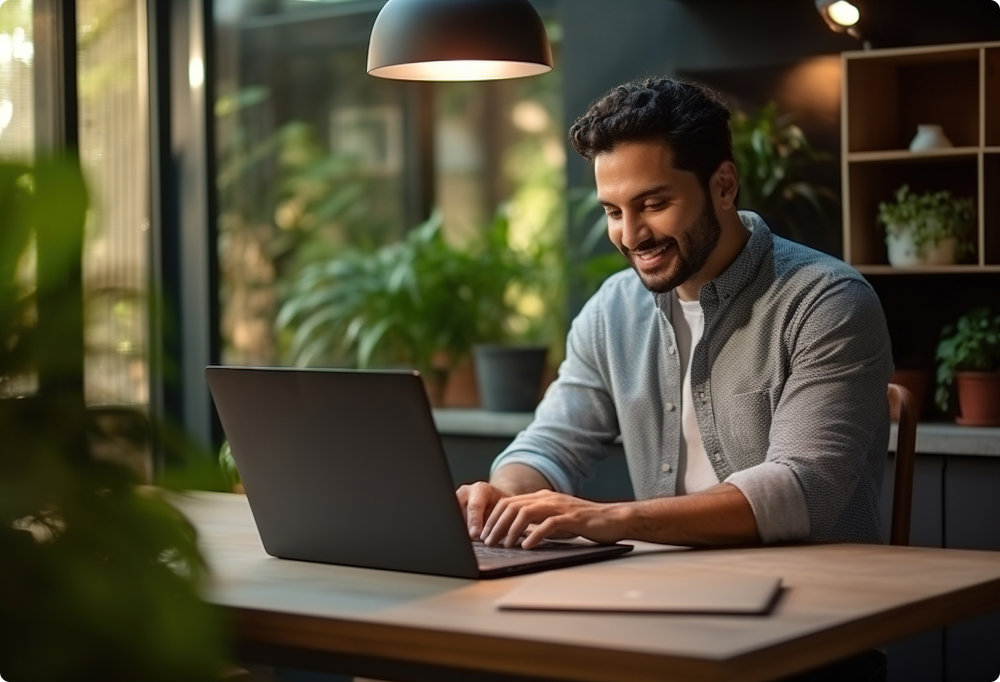
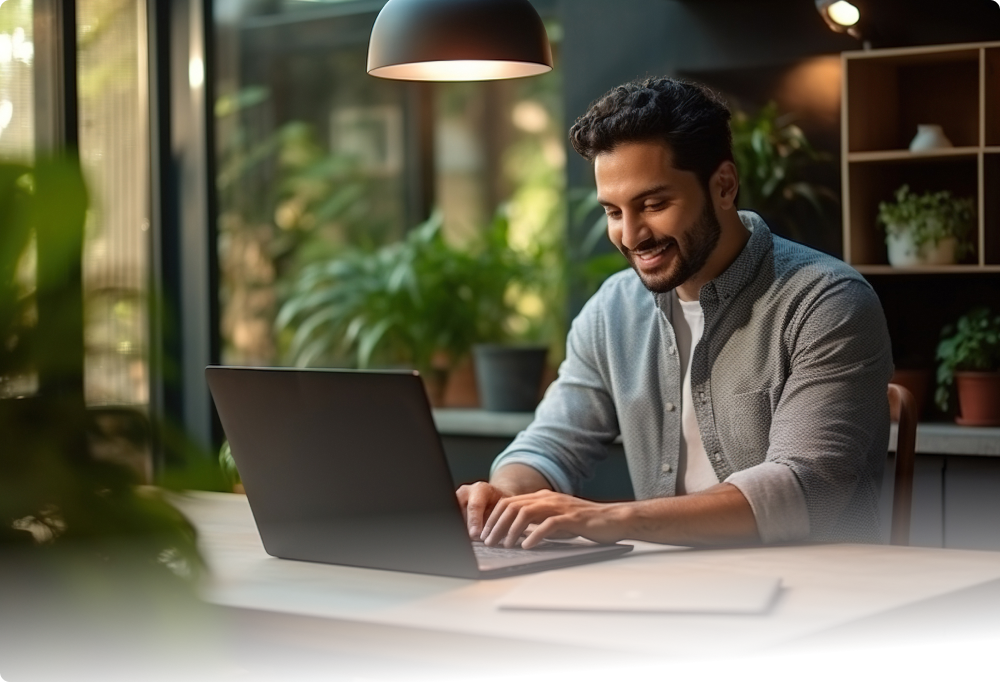
first commit

Changed region(s): [[0.0, 0.7082, 1.0, 1.0]]

diff --git a/app/page.tsx b/app/page.tsx
@@ -1,6 +1,6 @@
 import Image from "next/image";
-import NavBar from "@/components/NavBar";
 import { Lato } from "next/font/google";
+import Footer from "@/components/Footer";
 
 const lato = Lato({
     subsets: ["latin"],
@@ -21,9 +21,7 @@ const backgroundStyle = {
 export default function Home() {
     return (
         <main className={lato.className}>
-            <NavBar />
-
-            <div className="h-[400vh] text-white">
+            <div className="h-[450vh] text-white">
                 <div className="h-[100vh]">
                     <div
                         className="absolute h-[100vh] bg-cover bg-gradient-to-t from-white to-black"
@@ -69,7 +67,69 @@ export default function Home() {
                     </p>
                 </div>
 
-                <div className="h-[200vh] bg-slate-900"></div>
+                <div className="h-[250vh] bg-gradient-to-b from-[#0B323E] to-[#101C20] text-xl">
+                    <div className="h-[70vh] flex flex-row justify-around items-center">
+                        <div className="h-[350px] w-[450px]">
+                            <div className="text-5xl font-bold text-transparent bg-clip-text bg-gradient-to-r from-[#147390] to-[#A6FBB2]">
+                                Private and Efficient Self-Assessment
+                            </div>
+                            <p className="text-2xl w-[430px] pt-12 leading-relaxed">
+                                Only 16 questions provide a quick yet insightful
+                                evaluation of your Emotional Fulfillment,
+                                Intellectuak Engagement, Workplace Relationship,
+                                and Engagement within your current role.
+                            </p>
+                        </div>
+                        <Image
+                            src="/image1.png"
+                            alt="First Image"
+                            width={500}
+                            height={500}
+                            className=""
+                        />
+                    </div>
+                    <div className="h-[70vh] flex flex-row justify-around items-center">
+                        <Image
+                            src="/image2.png"
+                            alt="First Image"
+                            width={500}
+                            height={500}
+                            className=""
+                        />
+                        <div className="h-[350px] w-[470px]">
+                            <div className="text-5xl font-bold text-transparent bg-clip-text bg-gradient-to-r from-[#147390] to-[#A6FBB2]">
+                                Confidential Guidance for Career Transitions
+                            </div>
+                            <p className="text-2xl w-[430px] pt-12 leading-relaxed">
+                                Specifically designed for professionals at a
+                                turning point, this private tool provides
+                                insights into job satisfaction and performance,
+                                offering confidential guidance for pivotal
+                                career decisions.
+                            </p>
+                        </div>
+                    </div>
+                    <div className="h-[70vh] flex flex-row justify-around items-center">
+                        <div className="h-[350px] w-[430px]">
+                            <div className="text-5xl font-bold text-transparent bg-clip-text bg-gradient-to-r from-[#147390] to-[#A6FBB2]">
+                                Peer Comparions for Context
+                            </div>
+                            <p className="text-2xl w-[420px] pt-12 leading-relaxed">
+                                Compare your career progress with peers in a
+                                secure environment, offering a private yet clear
+                                perspective on where you stand professionally.
+                            </p>
+                        </div>
+                        <Image
+                            src="/image3.png"
+                            alt="First Image"
+                            width={500}
+                            height={500}
+                            className=""
+                        />
+                    </div>
+                    <Footer />
+                </div>
             </div>
         </main>
     );

diff --git a/components/Footer.tsx b/components/Footer.tsx
@@ -1,0 +1,43 @@
+import React from "react";
+import Link from "next/link";
+
+const Footer = () => {
+    return (
+        <footer className="flex flex-row justify-center items-center h-[40vh] text-white gap-x-24 w-fill">
+            <div className="bg-[#384245] px-[7rem] py-[6rem]" />
+            <div className="flex flex-row gap-x-24 h-[12rem] ">
+                <div className="flex flex-col justify-start items-start gap-y-4">
+                    <Link href="/">Home</Link>
+                    <Link href="/">Start Career Benchmark</Link>
+                    <Link href="/">Augmented Mentorship</Link>
+                    <Link href="/">Enterprise Solution</Link>
+                </div>
+                <div className="flex flex-col justify-start items-start gap-y-4">
+                    <Link href="/">Terms and Conditions</Link>
+                    <Link href="/">Policies</Link>
+                    <Link href="/">Contact</Link>
+                </div>
+                <div className="flex flex-col justify-start items-start gap-y-4">
+                    <Link href="/" className="font-bold">
+                        Join Our Newsletter
+                    </Link>
+                    <Link href="/">
+                        Get the latest information from CoPilot Career
+                    </Link>
+                    <div className="flex gap-4 pt-2">
+                        <input
+                            type="text"
+                            placeholder="Enter your email address"
+                            className="h-[3.5rem] w-[24rem] rounded text-center border-none outline-none text-black"
+                        />
+                        <button className="h-[3.5rem] px-10 rounded bg-gradient-to-r from-[#106884] to-[#88CDE1] text-xl">
+                            Sign Up
+                        </button>
+                    </div>
+                </div>
+            </div>
+        </footer>
+    );
+};
+
+export default Footer;

diff --git a/tailwind.config.ts b/tailwind.config.ts
@@ -1,20 +1,21 @@
-import type { Config } from 'tailwindcss'
+import type { Config } from "tailwindcss";
 
 const config: Config = {
-  content: [
-    './pages/**/*.{js,ts,jsx,tsx,mdx}',
-    './components/**/*.{js,ts,jsx,tsx,mdx}',
-    './app/**/*.{js,ts,jsx,tsx,mdx}',
-  ],
-  theme: {
-    extend: {
-      backgroundImage: {
-        'gradient-radial': 'radial-gradient(var(--tw-gradient-stops))',
-        'gradient-conic':
-          'conic-gradient(from 180deg at 50% 50%, var(--tw-gradient-stops))',
-      },
+    content: [
+        "./pages/**/*.{js,ts,jsx,tsx,mdx}",
+        "./components/**/*.{js,ts,jsx,tsx,mdx}",
+        "./app/**/*.{js,ts,jsx,tsx,mdx}",
+    ],
+    darkMode: ["class"],
+    theme: {
+        extend: {
+            backgroundImage: {
+                "gradient-radial": "radial-gradient(var(--tw-gradient-stops))",
+                "gradient-conic":
+                    "conic-gradient(from 180deg at 50% 50%, var(--tw-gradient-stops))",
+            },
+        },
     },
-  },
-  plugins: [],
-}
-export default config
+    plugins: [],
+};
+export default config;

diff --git a/app/layout.tsx b/app/layout.tsx
@@ -1,6 +1,7 @@
 import type { Metadata } from "next";
 import { Inter } from "next/font/google";
 import "./globals.css";
+import NavBar from "../components/NavBar";
 
 const inter = Inter({ subsets: ["latin"] });
 
@@ -16,7 +17,10 @@ export default function RootLayout({
 }) {
     return (
         <html lang="en">
-            <body className={inter.className}>{children}</body>
+            <body className={inter.className}>
+                <NavBar />
+                {children}
+            </body>
         </html>
     );
 }

diff --git a/components/NavBar.tsx b/components/NavBar.tsx
@@ -13,7 +13,7 @@ const NavBar = () => {
         <div
             className={`flex flex-row justify-between items-center bg-black h-[10vh] text-white text-2xl p-12 ${lato.className}`}
         >
-            <div className="flex gap-16 items-center">
+            <div className="flex gap-14 items-center">
                 <Link href="/" className={`text-3xl ${orbitron.className}`}>
                     CopilotCareer
                 </Link>
